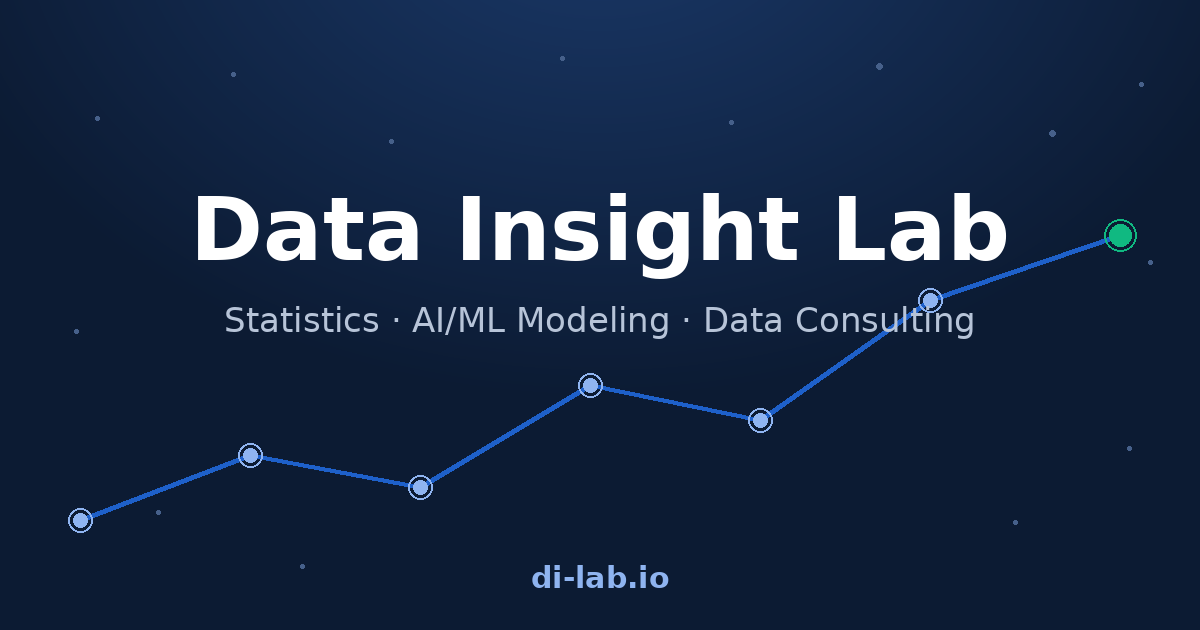
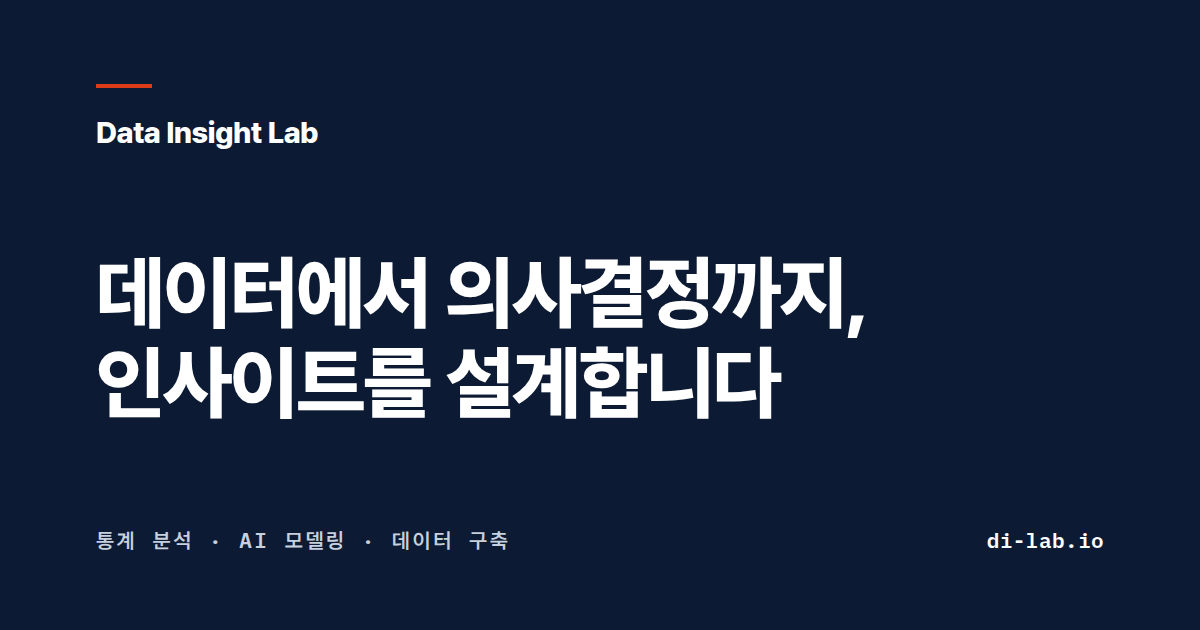
og-card.png 를 현재 디자인(navy·accent·Pretendard)으로 교체, 재현용 HTML·캡처 스크립트 추가

diff --git a/tools/og/og-card.html b/tools/og/og-card.html
@@ -1,0 +1,57 @@
+<!-- og-card.png 원본 레이아웃 (1200×630) — make_og.mjs 가 캡처. 색·폰트는 사이트 :root 토큰과 동일 -->
+<!DOCTYPE html>
+<html lang="ko">
+<head>
+<meta charset="UTF-8">
+<link rel="stylesheet" href="/fonts/pretendard.css">
+<link rel="stylesheet" href="/fonts/plexmono.css">
+<style>
+  :root {
+    --navy: #0C1B33;
+    --accent: #DB3B17;
+    --dark-sub: #C7D0DE;
+    --font-sans: 'Pretendard Variable', 'Pretendard', sans-serif;
+    --font-mono: 'IBM Plex Mono', 'Pretendard Variable', 'Pretendard', monospace;
+  }
+  * { margin: 0; padding: 0; box-sizing: border-box; }
+  html, body { width: 1200px; height: 630px; }
+  body {
+    background: var(--navy);
+    color: #fff;
+    font-family: var(--font-sans);
+    -webkit-font-smoothing: antialiased;
+    word-break: keep-all;
+    padding: 84px 96px 76px;
+    display: flex;
+    flex-direction: column;
+  }
+  .rule { width: 56px; height: 4px; background: var(--accent); }
+  .logo { margin-top: 26px; font-size: 30px; font-weight: 800; letter-spacing: -0.02em; }
+  h1 {
+    margin-top: auto;
+    font-size: 80px;
+    font-weight: 800;
+    line-height: 1.12;
+    letter-spacing: -0.03em;
+  }
+  .foot {
+    margin-top: auto;
+    display: flex;
+    justify-content: space-between;
+    align-items: baseline;
+    font-family: var(--font-mono);
+    font-size: 21px;
+    font-weight: 600;
+    letter-spacing: 0.12em;
+    color: var(--dark-sub);
+  }
+  .foot .url { color: #fff; letter-spacing: 0.02em; }
+</style>
+</head>
+<body>
+  <div class="rule"></div>
+  <div class="logo">Data Insight Lab</div>
+  <h1>데이터에서 의사결정까지,<br>인사이트를 설계합니다</h1>
+  <div class="foot"><span>통계 분석 · AI 모델링 · 데이터 구축</span><span class="url">di-lab.io</span></div>
+</body>
+</html>
